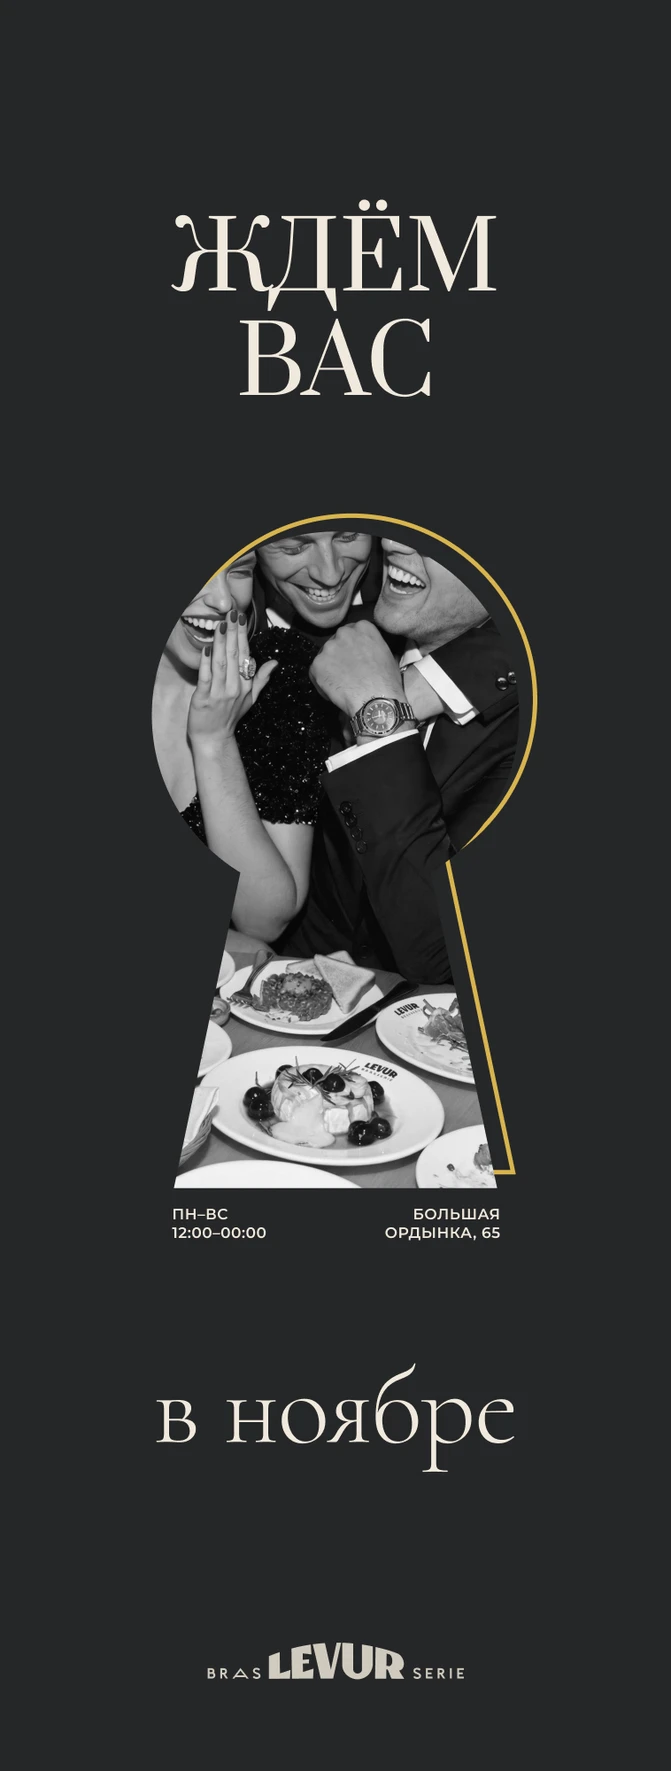
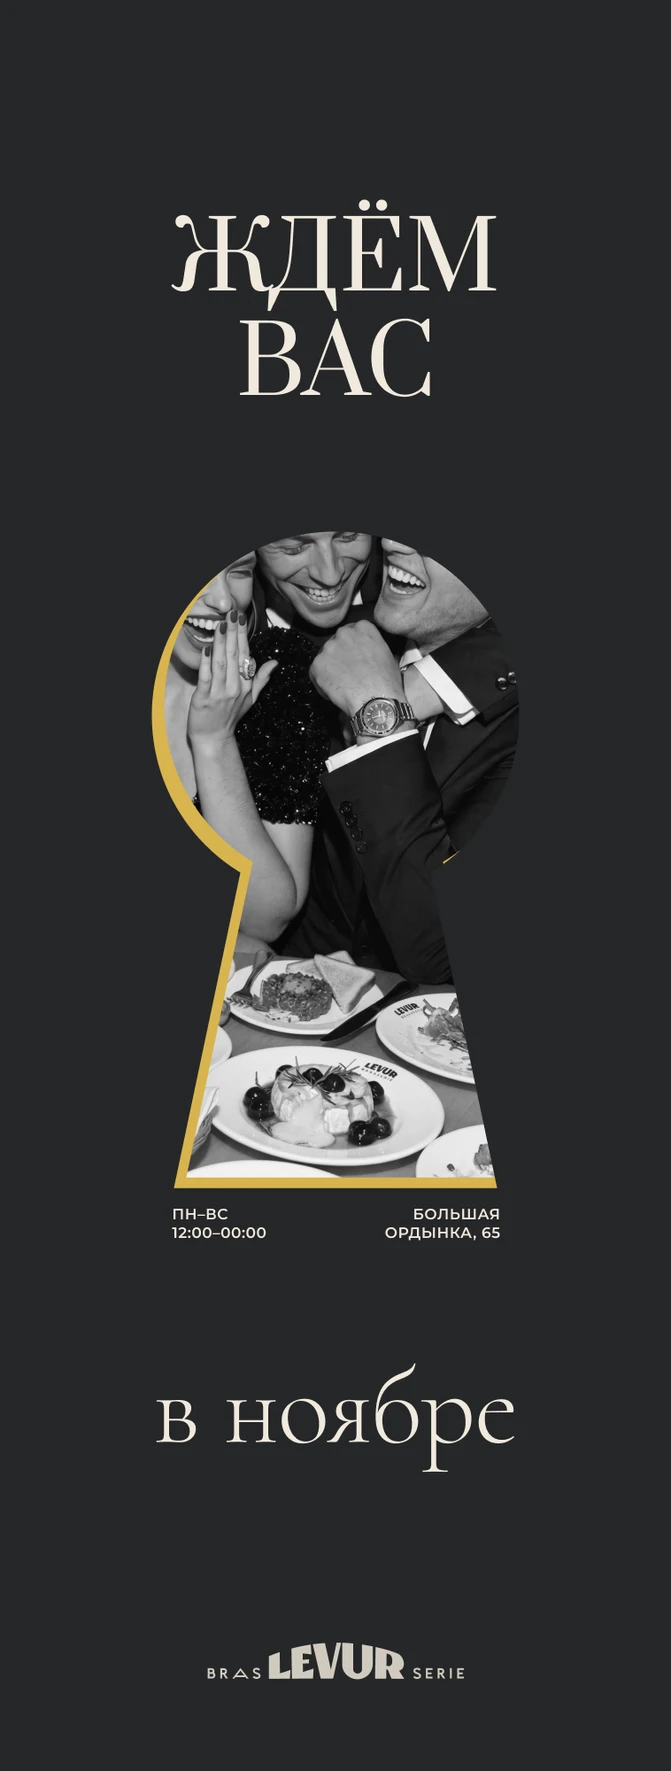
Скважина: жёлтая внутренняя грань вместо обводки

diff --git a/index.html b/index.html
@@ -171,7 +171,7 @@
           </div>
           <div class="shade"></div>
         </div></div>
-        <figcaption>Вариант 1<span class="opts" role="group" aria-label="Цвет фото"><button type="button" data-img="k1" data-src="door-3d/sticker-keyhole.webp?v=20261028i" aria-pressed="true">Цвет</button><button type="button" data-img="k1" data-src="door-3d/sticker-keyhole-bw.webp?v=20261028q" aria-pressed="false">ЧБ</button></span></figcaption>
+        <figcaption>Вариант 1<span class="opts" role="group" aria-label="Цвет фото"><button type="button" data-img="k1" data-src="door-3d/sticker-keyhole.webp?v=20261028i" aria-pressed="true">Цвет</button><button type="button" data-img="k1" data-src="door-3d/sticker-keyhole-bw.webp?v=20261028r" aria-pressed="false">ЧБ</button></span></figcaption>
       </figure>
       <figure>
         <div class="frame"><div class="view" role="button" tabindex="0" aria-label="Открыть на весь экран">
@@ -322,7 +322,7 @@
   const K2 = {
     grotesk: { light: 'door-3d/sticker-poster-grotesk-light.webp?v=20261028n', black: 'door-3d/sticker-poster-grotesk-black.webp?v=20261028p',
                green: 'door-3d/sticker-poster-grotesk-green.webp?v=20261028n', wine: 'door-3d/sticker-poster-grotesk-wine.webp?v=20261028n' },
-    serif: { light: 'door-3d/sticker-poster-serif.webp?v=20261028e', black: 'door-3d/sticker-poster-serif-dark.webp?v=20261028q',
+    serif: { light: 'door-3d/sticker-poster-serif.webp?v=20261028e', black: 'door-3d/sticker-poster-serif-dark.webp?v=20261028r',
              green: 'door-3d/sticker-poster-serif-dark-green.webp?v=20261028j', wine: 'door-3d/sticker-poster-serif-dark-wine.webp?v=20261028j' },
   };
   const k2st = { font: 'grotesk', color: { grotesk: 'black', serif: 'black' } };
